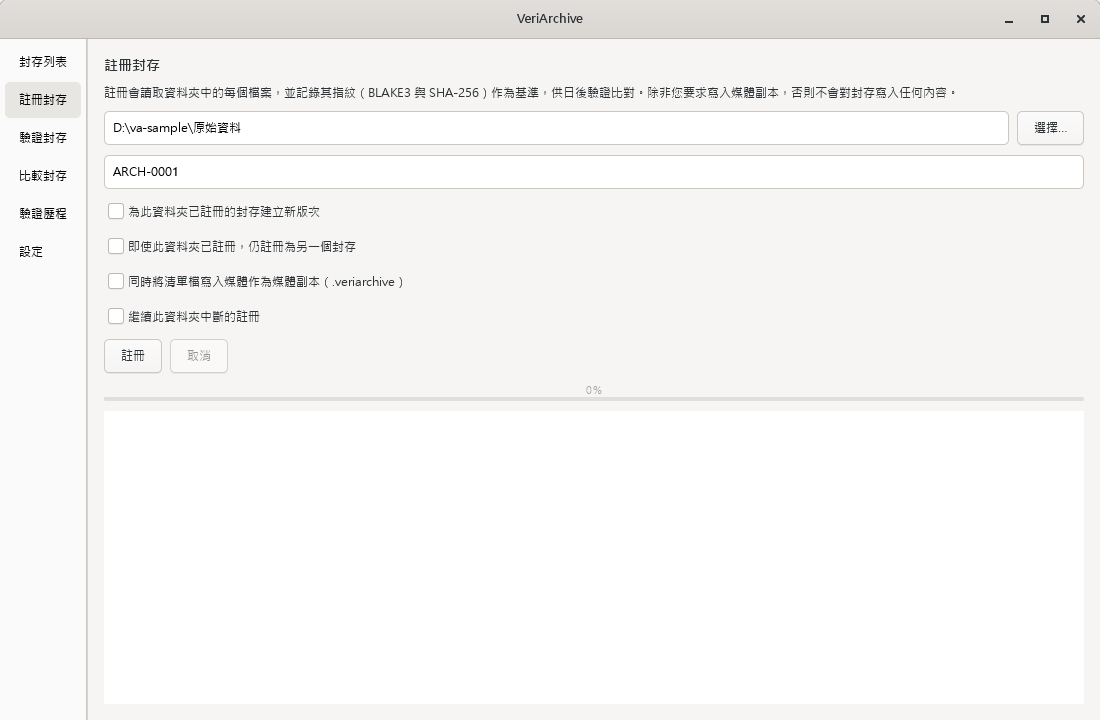
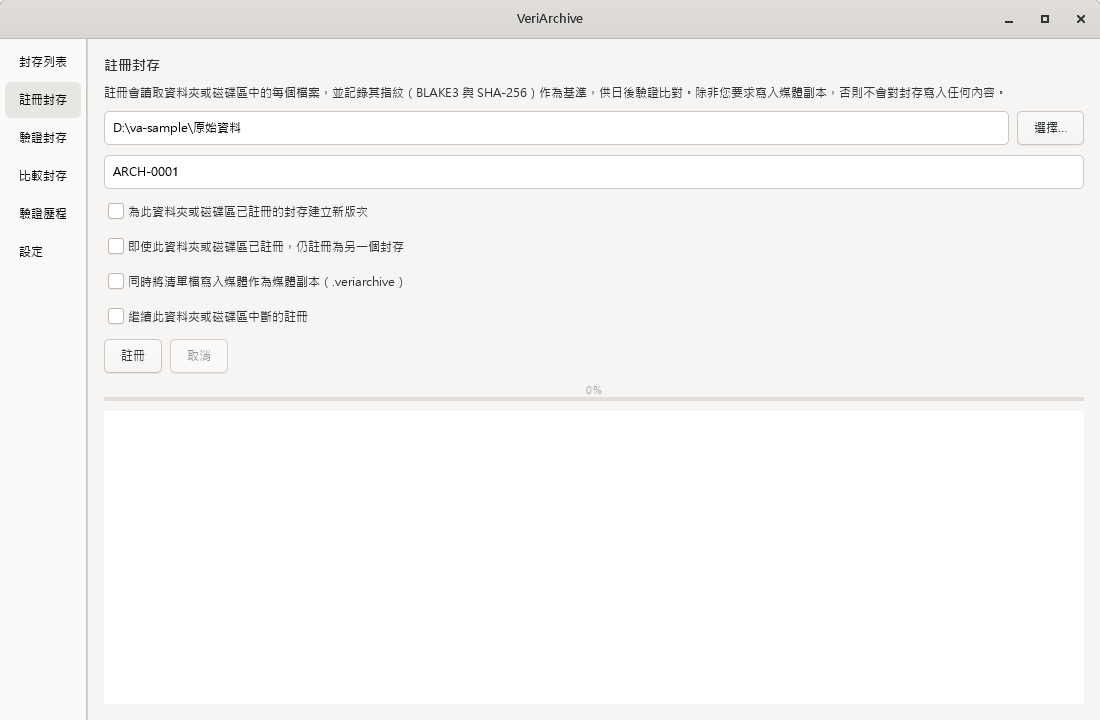
fix: name volumes beside folders in the register and verify views
- Say "folder or volume" wherever the register and verify views name what they register or verify, in English and Traditional Chinese
- Rewrite the illustrated guide's registration section around a whole hard disk (its volume root, such as F:\), with a single folder as the other way, and explain why its pictures show sample folders
- Quote the new texts in both user guides and retake the guide's pictures

diff --git a/src/app/text_zh_tw.cpp b/src/app/text_zh_tw.cpp
@@ -370,26 +370,27 @@ constexpr CatalogEntry entries[] = {
     {"Media copy: {}", "媒體副本：{}"},
     {"Another operation is running.", "已有其他作業正在執行。"},
     {"Open a repository first (Settings).", "請先開啟儲存庫（見「設定」）。"},
-    {"Choose the folder to register.", "請選擇要註冊的資料夾。"},
+    {"Choose the folder or volume to register.", "請選擇要註冊的資料夾或磁碟區。"},
     {"Registering {} ...", "正在註冊 {}……"},
     {"Cannot open the repository: {}", "無法開啟儲存庫：{}"},
     {"Not registered: {}", "未能註冊：{}"},
     {"Done", "完成"},
-    {"Registration reads every file of the folder and records its fingerprints (BLAKE3 and "
-        "SHA-256) as the baseline that later verifications compare against. "
+    {"Registration reads every file of the folder or volume and records its fingerprints "
+        "(BLAKE3 and SHA-256) as the baseline that later verifications compare against. "
         "Nothing is written to the archive unless you ask for a media copy.",
-        "註冊會讀取資料夾中的每個檔案，並記錄其指紋（BLAKE3 與 SHA-256）作為基準，"
+        "註冊會讀取資料夾或磁碟區中的每個檔案，並記錄其指紋（BLAKE3 與 SHA-256）作為基準，"
         "供日後驗證比對。除非您要求寫入媒體副本，否則不會對封存寫入任何內容。"},
     {"Archive folder or volume root", "封存資料夾或磁碟區根目錄"},
     {"Choose...", "選擇…"},
-    {"Choose the archive folder", "選擇封存資料夾"},
+    {"Choose the archive folder or volume", "選擇封存資料夾或磁碟區"},
     {"Label (optional, e.g. ARCH-0012)", "標籤（選填，例如 ARCH-0012）"},
-    {"New revision of the archive registered at this folder", "為此資料夾已註冊的封存建立新版次"},
-    {"Register as a separate archive even though this folder is registered",
-        "即使此資料夾已註冊，仍註冊為另一個封存"},
+    {"New revision of the archive registered at this folder or volume",
+        "為此資料夾或磁碟區已註冊的封存建立新版次"},
+    {"Register as a separate archive even though this folder or volume is registered",
+        "即使此資料夾或磁碟區已註冊，仍註冊為另一個封存"},
     {"Also write a manifest copy to the media (.veriarchive)",
         "同時將清單檔寫入媒體作為媒體副本（.veriarchive）"},
-    {"Resume an interrupted registration of this folder", "繼續此資料夾中斷的註冊"},
+    {"Resume an interrupted registration of this folder or volume", "繼續此資料夾或磁碟區中斷的註冊"},
     {"Register", "註冊"},
     {"Cancel", "取消"},
     // src/gui/verify_view.cpp
@@ -404,11 +405,11 @@ constexpr CatalogEntry entries[] = {
     {"The run was interrupted; use Resume to continue without re-reading verified files.",
         "此次執行已中斷；使用「繼續中斷的執行」即可接續，不必重新讀取已驗證的檔案。"},
     {"Run: {}", "執行：{}"},
-    {"Choose the folder to verify, or pick a registered archive.",
-        "請選擇要驗證的資料夾，或挑選已註冊的封存。"},
+    {"Choose the folder or volume to verify, or pick a registered archive.",
+        "請選擇要驗證的資料夾或磁碟區，或挑選已註冊的封存。"},
     {"Verifying (reading every registered byte) ...", "正在驗證（讀取每個已註冊的位元組）……"},
     {"Not verified: {}", "未能驗證：{}"},
-    {"The folder above", "上方的資料夾"},
+    {"The folder or volume above", "上方的資料夾或磁碟區"},
     {"FULL verification re-reads every registered file from the medium and compares it with "
         "the baseline. Only FULL VERIFY PASSED means 100% of the registered content was read and "
         "matched.",

diff --git a/src/gui/register_view.cpp b/src/gui/register_view.cpp
@@ -1,5 +1,5 @@
-// Register Archive (§B17): choose a folder, register it (or a new revision),
-// with progress, cancel and resume for an interrupted registration.
+// Register Archive (§B17): choose a folder or volume, register it (or a new
+// revision), with progress, cancel and resume for an interrupted registration.
 #include "gui/gui_app.h"
 
 #include "common/utf8.h"
@@ -82,7 +82,7 @@ void start_registration(GuiState& state)
     request.write_media_copy = gtk_check_button_get_active(GTK_CHECK_BUTTON(view.media_copy));
     request.resume = gtk_check_button_get_active(GTK_CHECK_BUTTON(view.resume));
     if (request.root.empty()) {
-        show_report(state, fixed_message("Choose the folder to register."));
+        show_report(state, fixed_message("Choose the folder or volume to register."));
         return;
     }
 
@@ -137,9 +137,9 @@ GtkWidget* build_register_view(GuiState& state)
     set_margins(box, 16);
     gtk_box_append(GTK_BOX(box), make_heading(state.text("Register Archive")));
     gtk_box_append(GTK_BOX(box), make_label(state.text(
-        "Registration reads every file of the folder and records its fingerprints (BLAKE3 and "
-        "SHA-256) as the baseline that later verifications compare against. Nothing is written to "
-        "the archive unless you ask for a media copy.")));
+        "Registration reads every file of the folder or volume and records its fingerprints "
+        "(BLAKE3 and SHA-256) as the baseline that later verifications compare against. Nothing is "
+        "written to the archive unless you ask for a media copy.")));
 
     GtkWidget* folder_row = gtk_box_new(GTK_ORIENTATION_HORIZONTAL, 8);
     view.folder = gtk_entry_new();
@@ -150,7 +150,8 @@ GtkWidget* build_register_view(GuiState& state)
         auto& state = *static_cast<GuiState*>(data);
         guarded(
             [&] {
-                choose_folder(state.window, state.register_view.folder, state.text("Choose the archive folder"));
+                choose_folder(state.window, state.register_view.folder,
+                    state.text("Choose the archive folder or volume"));
             },
             [&](Report error) { show_error(state, std::move(error)); });
     }), &state);
@@ -163,13 +164,13 @@ GtkWidget* build_register_view(GuiState& state)
     gtk_box_append(GTK_BOX(box), view.label);
 
     view.new_revision = gtk_check_button_new_with_label(
-        state.text("New revision of the archive registered at this folder").c_str());
+        state.text("New revision of the archive registered at this folder or volume").c_str());
     view.force_new_archive = gtk_check_button_new_with_label(
-        state.text("Register as a separate archive even though this folder is registered").c_str());
+        state.text("Register as a separate archive even though this folder or volume is registered").c_str());
     view.media_copy = gtk_check_button_new_with_label(
         state.text("Also write a manifest copy to the media (.veriarchive)").c_str());
     view.resume = gtk_check_button_new_with_label(
-        state.text("Resume an interrupted registration of this folder").c_str());
+        state.text("Resume an interrupted registration of this folder or volume").c_str());
     gtk_box_append(GTK_BOX(box), view.new_revision);
     gtk_box_append(GTK_BOX(box), view.force_new_archive);
     gtk_box_append(GTK_BOX(box), view.media_copy);

diff --git a/src/gui/verify_view.cpp b/src/gui/verify_view.cpp
@@ -1,6 +1,6 @@
-// Verify Archive (§B17): FULL verification of a folder or of a registered
-// archive found on the attached volumes, with progress, cancel and resume. The
-// result always carries its mode (R-21) and the V1 guarantee (R-02).
+// Verify Archive (§B17): FULL verification of a folder or volume, or of a
+// registered archive found on the attached volumes, with progress, cancel and
+// resume. The result always carries its mode (R-21) and the V1 guarantee (R-02).
 #include "gui/gui_app.h"
 
 #include "common/utf8.h"
@@ -105,7 +105,8 @@ void start_verification(GuiState& state, bool resume)
         } else {
             request.root = entry_path(view.folder);
             if (request.root->empty()) {
-                show_report(state, fixed_message("Choose the folder to verify, or pick a registered archive."));
+                show_report(state,
+                    fixed_message("Choose the folder or volume to verify, or pick a registered archive."));
                 return;
             }
         }
@@ -197,7 +198,7 @@ void refresh_archive_choices(GuiState& state)
         g_object_unref(model);
     };
 
-    std::vector<std::string> verify_items{state.text("The folder above")};
+    std::vector<std::string> verify_items{state.text("The folder or volume above")};
     verify_items.insert(verify_items.end(), labels.begin(), labels.end());
     set_choices(state.verify_view.archive, verify_items);
     state.verify_view.archive_uuids = uuids;
@@ -243,7 +244,8 @@ GtkWidget* build_verify_view(GuiState& state)
         auto& state = *static_cast<GuiState*>(data);
         guarded(
             [&] {
-                choose_folder(state.window, state.verify_view.folder, state.text("Choose the archive folder"));
+                choose_folder(state.window, state.verify_view.folder,
+                    state.text("Choose the archive folder or volume"));
             },
             [&](Report error) { show_error(state, std::move(error)); });
     }), &state);
@@ -253,7 +255,7 @@ GtkWidget* build_verify_view(GuiState& state)
 
     GtkWidget* archive_row = gtk_box_new(GTK_ORIENTATION_HORIZONTAL, 8);
     gtk_box_append(GTK_BOX(archive_row), make_row_label(state.text("Verify:")));
-    const auto folder_above = state.text("The folder above");
+    const auto folder_above = state.text("The folder or volume above");
     const char* initial[] = {folder_above.c_str(), nullptr};
     view.archive = gtk_drop_down_new_from_strings(initial);
     gtk_box_append(GTK_BOX(archive_row), view.archive);

diff --git a/tests/unit/text_test.cpp b/tests/unit/text_test.cpp
@@ -340,6 +340,12 @@ void translation_tests()
     CHECK(chinese("error: Trusted keys must be an array") == "錯誤：設定檔中的 trusted_keys 必須是 JSON 陣列");
     CHECK(chinese("Finish or cancel the running operation before changing the language.") ==
           "請先完成或取消正在執行的作業，再切換語言。");
+    // Register and Verify name their target a folder or volume: a volume root
+    // registers the whole volume.
+    CHECK(chinese("Choose the folder or volume to register.") == "請選擇要註冊的資料夾或磁碟區。");
+    CHECK(chinese("Register as a separate archive even though this folder or volume is registered") ==
+          "即使此資料夾或磁碟區已註冊，仍註冊為另一個封存");
+    CHECK(chinese("The folder or volume above") == "上方的資料夾或磁碟區");
     // English stays byte-identical.
     CHECK(english("cannot run SQL: database is locked") == "cannot run SQL: database is locked");
     CHECK(english("first-run:home") == "first-run:home");

diff --git a/src/gui/gui_support.h b/src/gui/gui_support.h
@@ -47,7 +47,7 @@ void clear_grid(GtkWidget* grid);
 std::filesystem::path entry_path(GtkWidget* entry);
 
 // The archive chosen in a drop-down whose item `offset + i` is uuids[i], or
-// nothing when another item (such as "The folder above") is chosen.
+// nothing when another item (such as "The folder or volume above") is chosen.
 std::optional<Uuid> chosen_archive(GtkWidget* drop_down, const std::vector<Uuid>& uuids, guint offset);
 
 // Chooses `archive` again, if the drop-down still lists it.

diff --git a/src/gui/gui_app.h b/src/gui/gui_app.h
@@ -89,7 +89,7 @@ struct GuiState {
 
     struct {
         GtkWidget* folder = nullptr;
-        GtkWidget* archive = nullptr;      // drop-down: "the folder above" or a registered archive
+        GtkWidget* archive = nullptr;      // drop-down: "the folder or volume above" or a registered archive
         GtkWidget* strict = nullptr;
         GtkWidget* start = nullptr;
         GtkWidget* resume = nullptr;

diff --git a/src/gui/gui_app.cpp b/src/gui/gui_app.cpp
@@ -105,7 +105,7 @@ struct Kept {
     bool register_finished = false;
     std::string verify_folder;
     bool strict = false;
-    std::optional<Uuid> verify_archive;  // empty: "The folder above"
+    std::optional<Uuid> verify_archive;  // empty: "The folder or volume above"
     double verify_fraction = 0.0;
     bool verify_finished = false;
     std::optional<Uuid> compare_reference;

diff --git a/docs/gui-guide.zh-TW.md b/docs/gui-guide.zh-TW.md
@@ -2,7 +2,9 @@
 
 這份說明用圖形介面（`veriarchive-gui.exe`）的實際畫面，一步一步帶你完成：建立儲存庫、註冊封存、驗證封存、查看歷程，以及**確認備份和原始資料完全相同**。
 
-畫面裡的資料夾（`原始資料`、`備份資料`）都是範例資料。命令列的用法和更多細節，請看[使用說明](user-guide.zh-TW.md)。
+截圖裡的兩個封存是資料夾（`原始資料`、`備份資料`），裡面放的是範例資料。這份說明是公開的，截圖不能拿真實硬碟上的資料來示範，所以範例資料放在一顆硬碟上的兩個資料夾裡（封存列表顯示的磁碟區、型號和容量，就是這顆硬碟的）。實際使用時，一般是註冊整顆硬碟：輸入 `F:\` 這樣的磁碟區根目錄（見第 2 節），其他操作都和截圖相同。
+
+命令列的用法和更多細節，請看[使用說明](user-guide.zh-TW.md)。
 
 ## 開始之前：程式資料夾
 
@@ -53,22 +55,26 @@ VeriArchive 是免安裝的攜帶式程式：
 
 ![註冊封存](images/zh-TW/03-register.png)
 
-註冊會把資料夾（或整顆磁碟區）裡的每個檔案讀一次，記下它們的指紋（BLAKE3 與 SHA-256），當作日後驗證和比較的**基準**。
+註冊會把一整顆硬碟裡的每個檔案讀一次，記下它們的指紋（BLAKE3 與 SHA-256），當作日後驗證和比較的**基準**。只想註冊其中一部分時，也可以只註冊一個資料夾。
 
-操作步驟：
+畫面上的「資料夾或磁碟區」就是指這兩種對象。「磁碟區」是程式對 `F:\` 這種位置的正式說法：一顆資料硬碟通常只有一個磁碟區，所以註冊 `F:\` 就是註冊整顆硬碟；硬碟分成幾個磁碟區時，每個磁碟區各註冊一次。
 
-1. 按「選擇…」挑選資料夾，或直接輸入路徑。要註冊整顆磁碟時，就輸入磁碟區根目錄，例如 `F:\`。
+註冊整顆硬碟的步驟：
+
+1. 在上方的欄位輸入硬碟的磁碟區根目錄，例如 `F:\`（也可以按「選擇…」挑選）。
 2. 標籤可以不填。要填的話，格式是 `ARCH-` 加上四位以上數字，例如 `ARCH-0001`；不填時，程式會自動編號。
 3. 按「註冊」。進度列會顯示完成比例、速度與剩餘時間，例如「計算雜湊中：2.16 TiB / 9.44 TiB（23%）・每秒 240 MiB・約剩 8～9 小時」，按「取消」可以隨時中止。完成比例依位元組計算，是精確的；剩餘時間是估計值，所以用範圍表示，剛開始的一分鐘會顯示「剩餘時間估算中」。
+
+只註冊一個資料夾時，第 1 步改成按「選擇…」挑選那個資料夾，或直接輸入它的路徑，例如 `F:\照片`；其他步驟都一樣。截圖裡註冊的 `D:\va-sample\原始資料` 就是一個資料夾（原因見開頭的說明）。
 
 下面四個選項平常都不用勾：
 
 | 選項 | 什麼時候用 |
 |---|---|
-| 為此資料夾已註冊的封存建立新版次 | 資料夾已經註冊過，而且內容是你刻意更新的，要重新建立基準 |
-| 即使此資料夾已註冊，仍註冊為另一個封存 | 資料夾已經註冊過，但要另外建立一個封存 |
+| 為此資料夾或磁碟區已註冊的封存建立新版次 | 已經註冊過，而且內容是你刻意更新的，要重新建立基準 |
+| 即使此資料夾或磁碟區已註冊，仍註冊為另一個封存 | 已經註冊過，但要另外建立一個封存 |
 | 同時將清單檔寫入媒體作為媒體副本 | 在被註冊的磁碟上多留一份清單檔（`.veriarchive` 資料夾）。**不勾的話，註冊完全不會寫入被註冊的磁碟** |
-| 繼續此資料夾中斷的註冊 | 上次註冊中途被取消，從中斷處接著做，已計算過的檔案不必重讀 |
+| 繼續此資料夾或磁碟區中斷的註冊 | 上次註冊中途被取消，從中斷處接著做，已計算過的檔案不必重讀 |
 
 注意事項：
 
@@ -101,7 +107,7 @@ VeriArchive 是免安裝的攜帶式程式：
 
 操作步驟：
 
-1. 在上方輸入或選擇資料夾。也可以在「驗證：」選單直接挑選已註冊的封存，程式會在已接上的磁碟中找到它。
+1. 在上方輸入或選擇磁碟區根目錄（例如 `F:\`）或資料夾，「驗證：」選單保持「上方的資料夾或磁碟區」。也可以在「驗證：」選單直接挑選已註冊的封存，程式會在已接上的磁碟中找到它。
 2. 按「完整驗證」。
 
 報告怎麼看：

diff --git a/docs/user-guide.zh-TW.md b/docs/user-guide.zh-TW.md
@@ -71,12 +71,12 @@ veriarchive-cli register E:\ --label ARCH-0012
 | 選項 | 用途 |
 |---|---|
 | `--write-media-copy` | 同時把清單檔寫到該磁碟上（`.veriarchive` 資料夾），當作媒體副本。預設**不**寫入任何東西到封存。 |
-| `--new-revision` | 這個資料夾已經註冊過，內容是刻意更新的：建立新的版次（新基準）。 |
-| `--force-new-archive` | 這個資料夾已經註冊過，但要註冊成另一個獨立的封存。 |
+| `--new-revision` | 這個資料夾或磁碟區已經註冊過，內容是刻意更新的：建立新的版次（新基準）。 |
+| `--force-new-archive` | 這個資料夾或磁碟區已經註冊過，但要註冊成另一個獨立的封存。 |
 | `--resume` | 繼續被中斷的註冊，已計算過的檔案不必重讀。 |
 | `--io hdd` 或 `--io ssd` | 指定讀取方式；傳統硬碟用 `hdd`（循序讀取），固態硬碟用 `ssd`（平行讀取）。通常會自動判斷。 |
 
-同一個資料夾再註冊一次時，程式會停下來（結束代碼 12），請你決定要用 `--new-revision` 還是 `--force-new-archive`。
+同一個資料夾或磁碟區再註冊一次時，程式會停下來（結束代碼 12），請你決定要用 `--new-revision` 還是 `--force-new-archive`。
 
 註冊時讀不到的檔案（權限不足、媒體錯誤等）會被記錄下來，但不含雜湊，日後絕不會回報為「已驗證」。
 
@@ -96,7 +96,7 @@ veriarchive-cli register E:\ --label ARCH-0012
 
 ## 驗證封存
 
-圖形介面「驗證封存」頁：選擇資料夾，或在「驗證：」下拉選單挑選已註冊的封存，按「完整驗證」。
+圖形介面「驗證封存」頁：選擇資料夾或磁碟區，或在「驗證：」下拉選單挑選已註冊的封存，按「完整驗證」。
 
 命令列（用路徑或封存的 uuid 都可以）：
 
@@ -174,7 +174,7 @@ veriarchive-cli register G:\ --copy-of <F 的封存 uuid>
 
 - `--copy-of` 可以不加：它只是記錄「G 是 F 的副本」，供顯示用。這裡要填完整的 uuid，可用 `archive list` 查看。
 - 要註冊和 F 根目錄相對應的資料夾，兩邊的路徑才對得上：如果 F 的副本放在 `G:\Backup\F`，就註冊 `G:\Backup\F`。G 這邊註冊的資料夾裡如果還有其他東西，都會被列為「新增」。
-- 如果 G 是用逐磁區方式複製（克隆）出來的，它的檔案系統 UUID 和 F 相同，註冊時會停下來（結束代碼 12，已遷移）。加上 `--force-new-archive`（圖形介面：勾選「即使此資料夾已註冊，仍註冊為另一個封存」），就能把它註冊成另一個封存。
+- 如果 G 是用逐磁區方式複製（克隆）出來的，它的檔案系統 UUID 和 F 相同，註冊時會停下來（結束代碼 12，已遷移）。加上 `--force-new-archive`（圖形介面：勾選「即使此資料夾或磁碟區已註冊，仍註冊為另一個封存」），就能把它註冊成另一個封存。
 
 ### 2. 比較
 

diff --git a/docs/user-guide.md b/docs/user-guide.md
@@ -71,12 +71,12 @@ Options:
 | Option | Purpose |
 |---|---|
 | `--write-media-copy` | Also write the manifest onto the disk (`.veriarchive` folder) as a media copy. By default nothing is written to the archive. |
-| `--new-revision` | The folder is already registered and its content changed on purpose: create a new revision (a new baseline). |
-| `--force-new-archive` | The folder is already registered, but register it as a separate archive. |
+| `--new-revision` | The folder or volume is already registered and its content changed on purpose: create a new revision (a new baseline). |
+| `--force-new-archive` | The folder or volume is already registered, but register it as a separate archive. |
 | `--resume` | Continue an interrupted registration without re-reading hashed files. |
 | `--io hdd` or `--io ssd` | Reading strategy: `hdd` reads sequentially, `ssd` in parallel. Usually detected automatically. |
 
-Registering an already registered folder again stops with exit code 12 and asks you to choose `--new-revision` or `--force-new-archive`.
+Registering an already registered folder or volume again stops with exit code 12 and asks you to choose `--new-revision` or `--force-new-archive`.
 
 Files that cannot be read at registration (permission, media errors) are recorded without hashes and are never reported as verified.
 
@@ -96,7 +96,7 @@ The CLI writes it to stderr, and not at all with `--json`.
 
 ## Verifying an archive
 
-GUI, Verify Archive view: choose the folder, or pick a registered archive in the "Verify:" drop-down, then press "Verify (FULL)".
+GUI, Verify Archive view: choose the folder or volume, or pick a registered archive in the "Verify:" drop-down, then press "Verify (FULL)".
 
 CLI, by path or by archive uuid:
 
@@ -174,7 +174,7 @@ veriarchive-cli register G:\ --copy-of <uuid of F's archive>
 
 - `--copy-of` is optional: it records that G is a copy of F, for display only. It needs the full uuid, which `archive list` shows.
 - Register the folder that corresponds to F's root, so the paths line up: if the copy of F sits in `G:\Backup\F`, register `G:\Backup\F`. Anything else in the folder registered on G shows up as New.
-- A sector-by-sector clone of F has F's filesystem id, so registering it stops with exit code 12 (MIGRATED). Add `--force-new-archive` (GUI: "Register as a separate archive even though this folder is registered") to register it as an archive of its own.
+- A sector-by-sector clone of F has F's filesystem id, so registering it stops with exit code 12 (MIGRATED). Add `--force-new-archive` (GUI: "Register as a separate archive even though this folder or volume is registered") to register it as an archive of its own.
 
 ### 2. Compare
 
